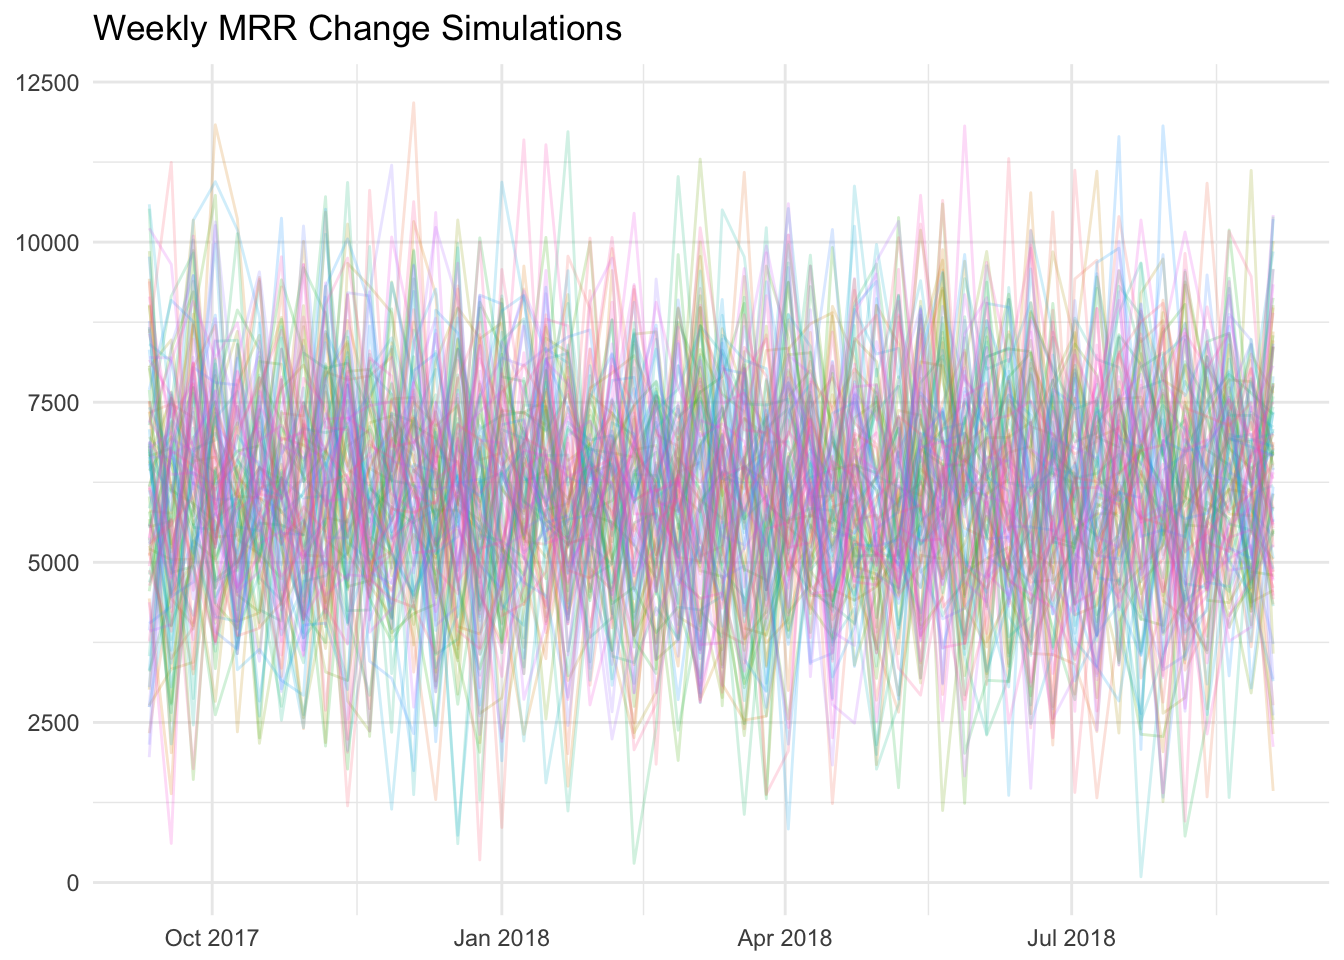
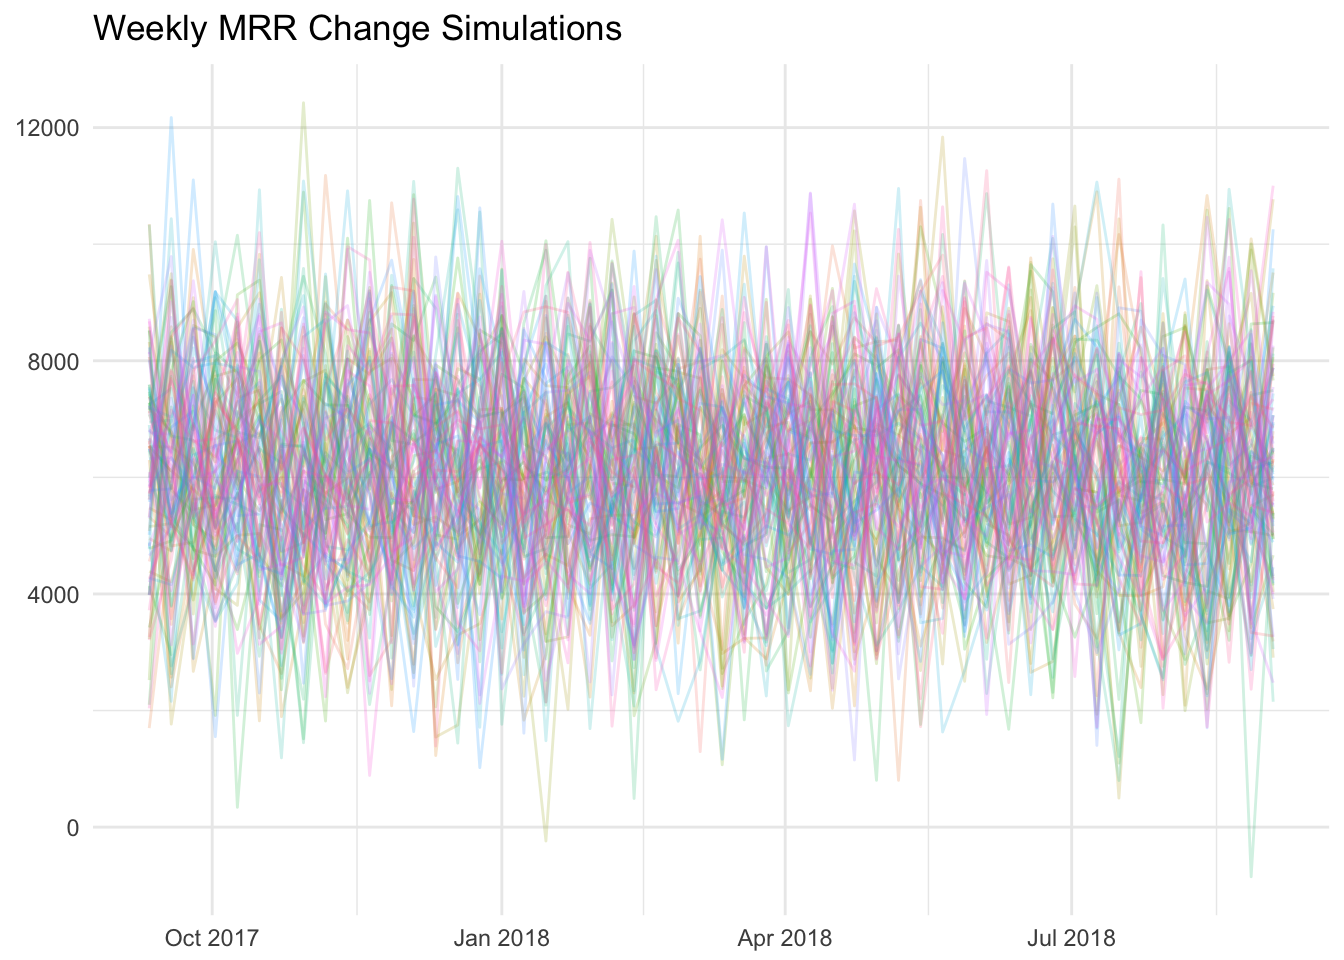
Updated

diff --git a/content/blog/mrr-growth-analysis.html b/content/blog/mrr-growth-analysis.html
@@ -80,8 +80,8 @@ sd(mrr$change, na.rm = TRUE)</code></pre>
 <p>We can now generate random samples from the distribution of MRR change. The assumes that weekly MRR change is normally distributed around 6141 with a standard deviation of 1797. Here are 10 of such numbers.</p>
 <pre class="r"><code># generate random sample of 10 months of mrr growth.
 rnorm(10, mean = mean(mrr$change, na.rm = T), sd = sd(mrr$change, na.rm = T))</code></pre>
-<pre><code>##  [1] 4437.113 6228.439 3469.006 7062.566 7132.605 5871.061 2804.827
-##  [8] 6594.012 5926.321 5029.579</code></pre>
+<pre><code>##  [1] 6731.124 8072.618 6269.548 8461.371 4806.412 7383.292 5326.358
+##  [8] 3985.097 6898.961 4170.441</code></pre>
 <p>Now let’s get a sample of 52, simulating MRR growth for the next year, and repeat this 100 times.</p>
 <p><img src="/blog/mrr-growth-analysis_files/figure-html/unnamed-chunk-21-1.png" width="672" /></p>
 <p>Each line represents a different simulation based on our historical data. This is what it would look like to plot the <em>average</em> of all 100 simulations for each week.</p>
